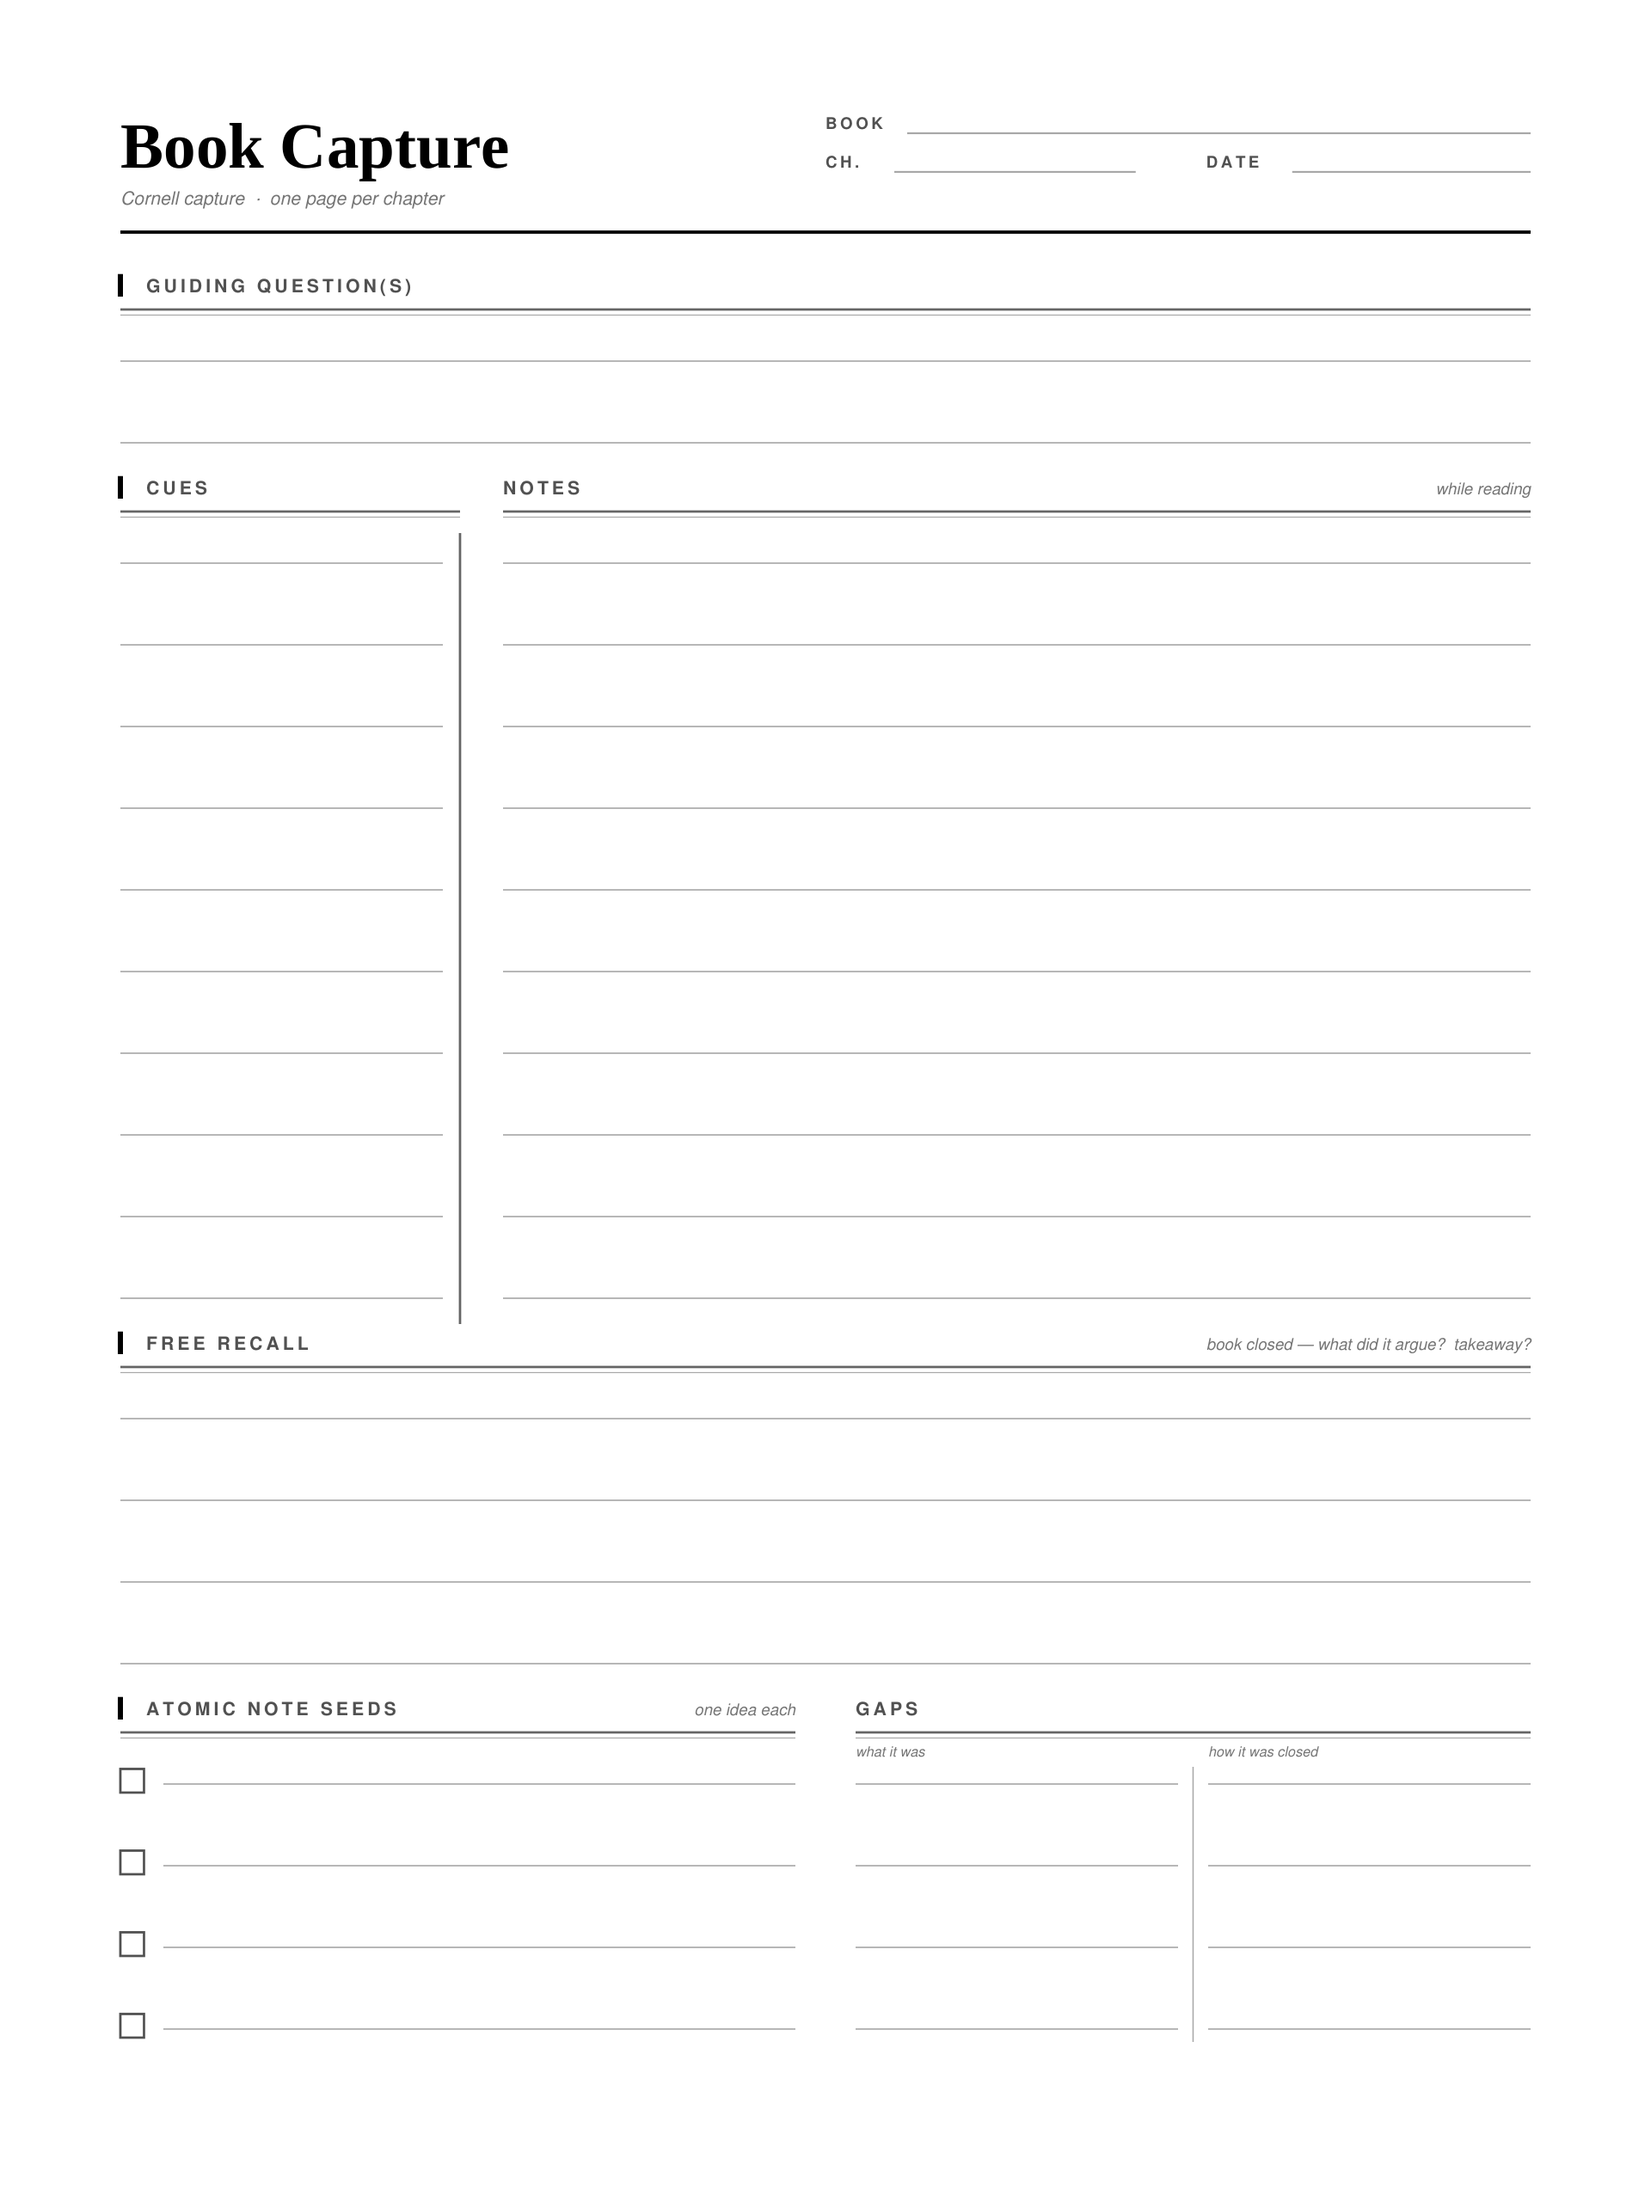
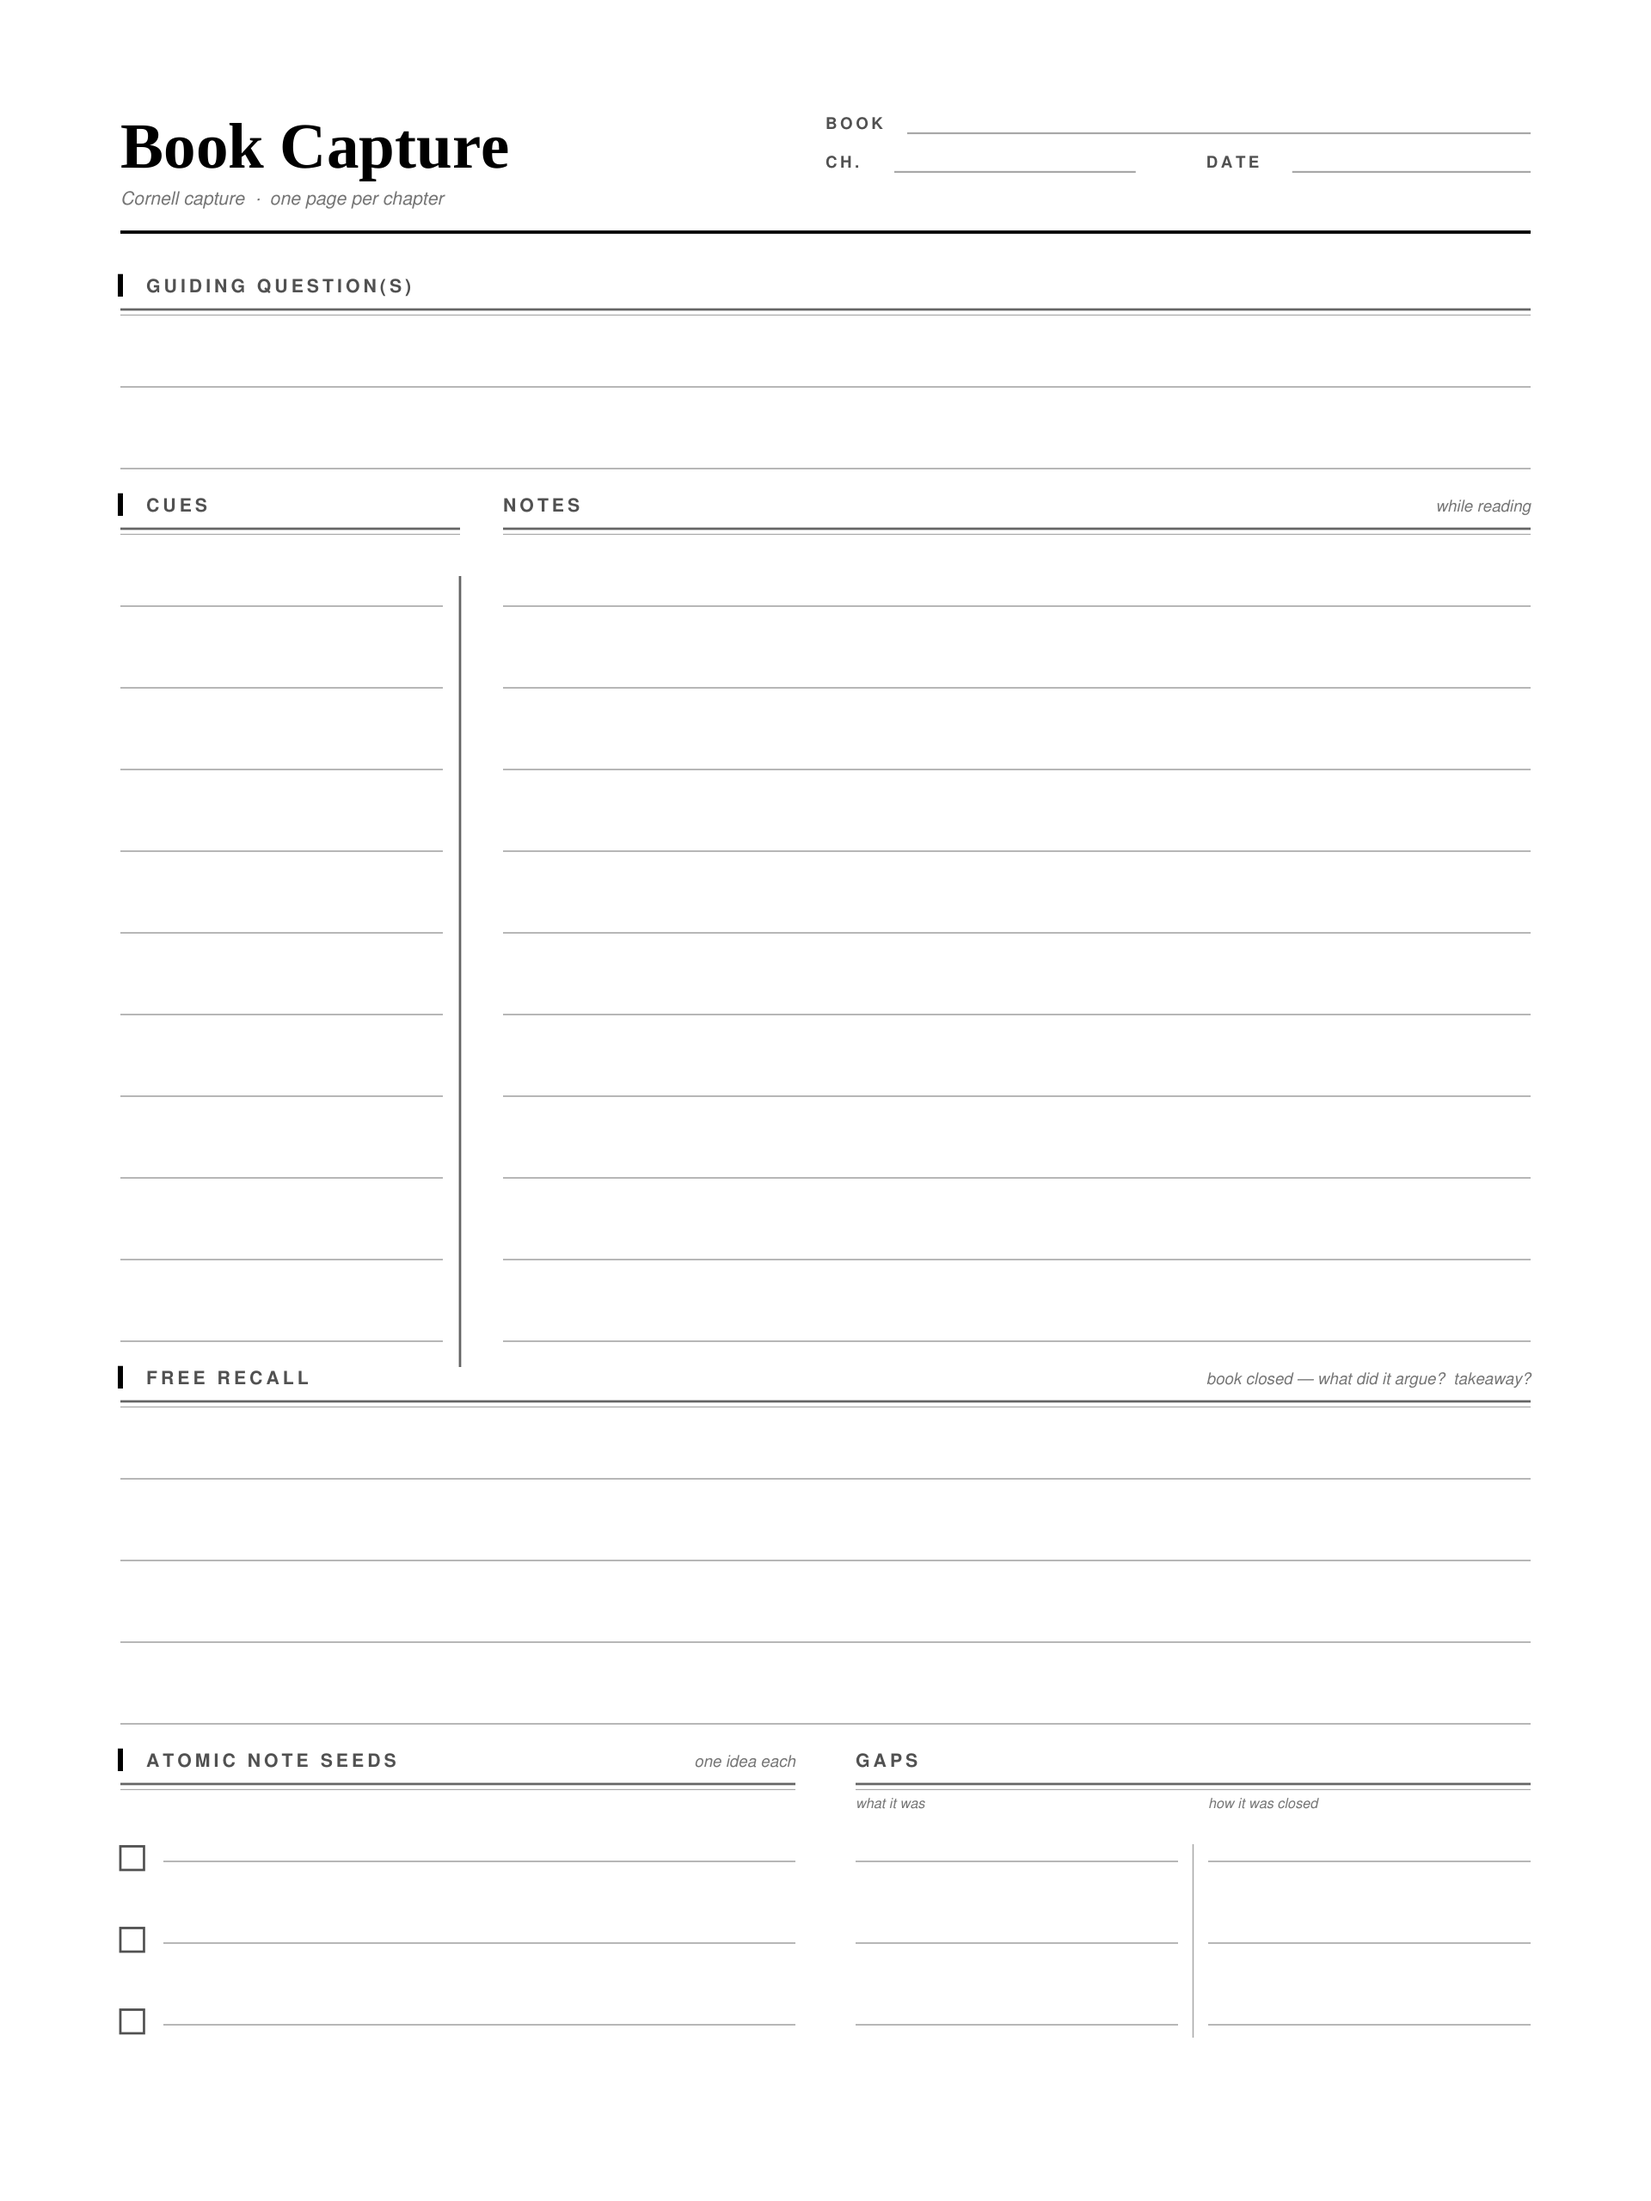
Open up divider-to-first-line gap in each section (keep Notes at 10 lines)

diff --git a/templates/cornell_v2.py b/templates/cornell_v2.py
@@ -118,11 +118,11 @@ def write_rules(c, x1, x2, y_first, n, col=WRITE, w=0.8):
 
 
 # ---------- layout constants ----------
-LABEL_GAP = 32.0   # label baseline -> first writing rule (clears the double-rule)
-ZONE_GAP  = 24.0   # bottom rule of a zone -> next label baseline
+LABEL_GAP = 44.0   # label baseline -> first writing rule (generous clearance under the divider)
+ZONE_GAP  = 20.0   # bottom rule of a zone -> next label baseline
 N_NOTES   = 10     # hero line count (dominant zone)
 N_RECALL  = 4
-N_SEEDS   = 4
+N_SEEDS   = 3
 
 
 # ---------- the page ----------
